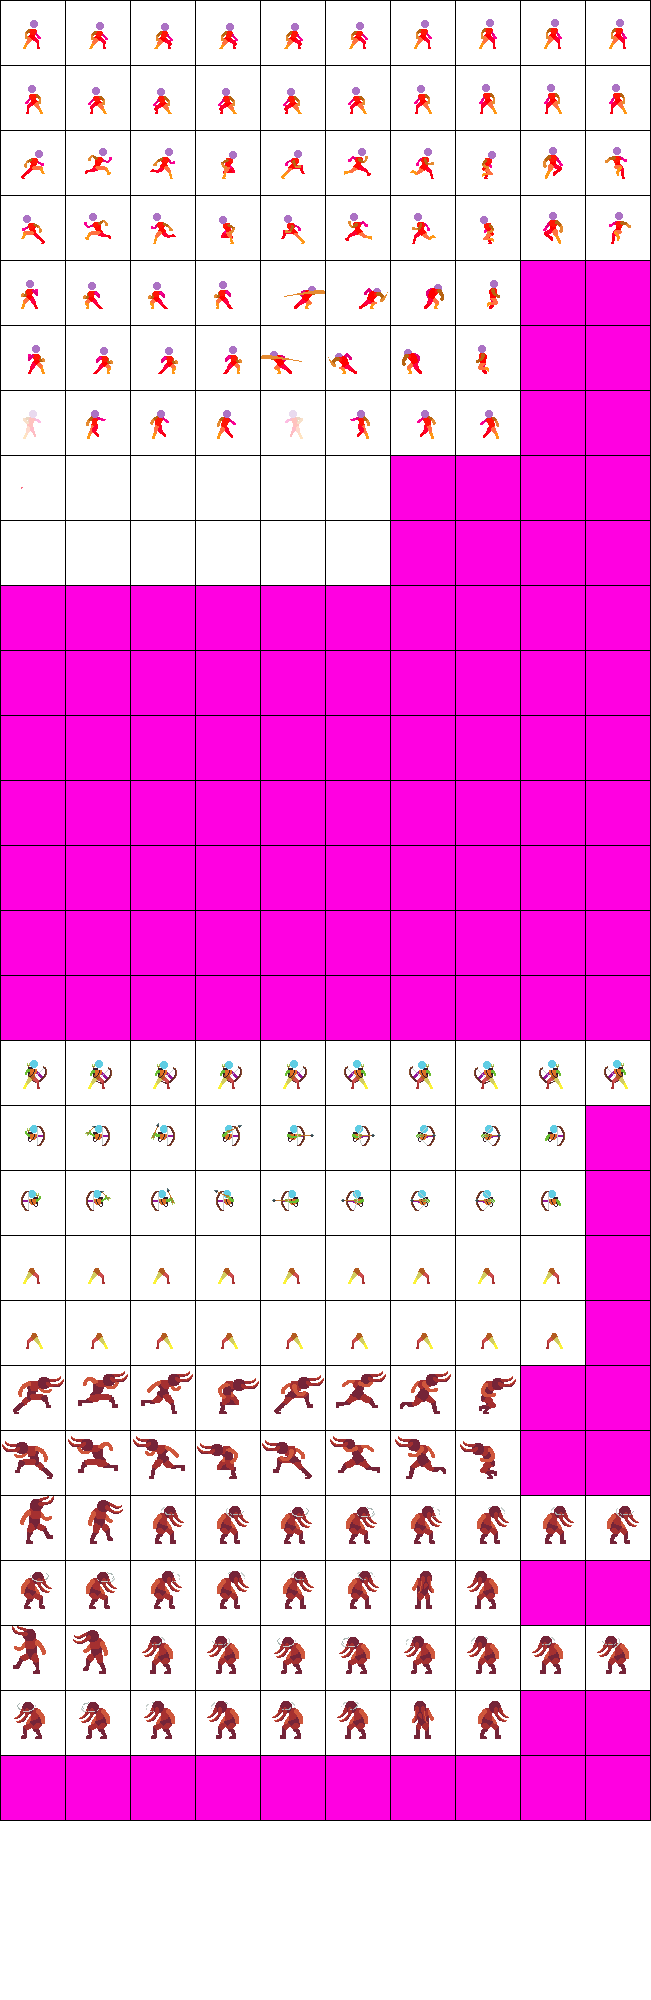
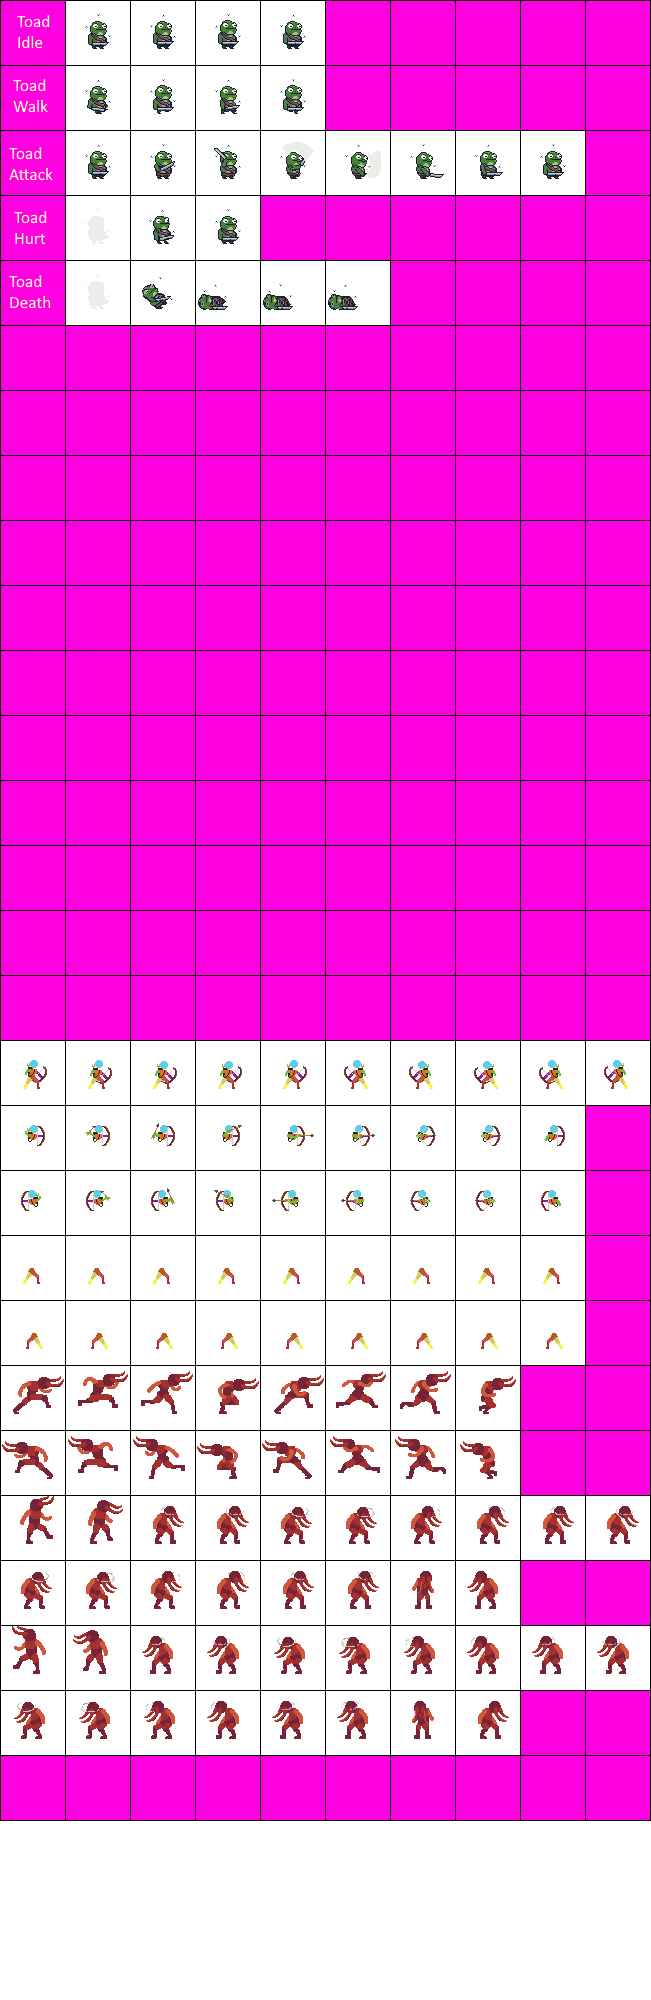
Added death logic and new textures for the basic enemy

Changed region(s): [[0.0, 0.0, 1.0, 0.31]]

diff --git a/GameProject2023/src/game_objects/BasicEnemy.java b/GameProject2023/src/game_objects/BasicEnemy.java
@@ -3,8 +3,9 @@ package game_objects;
 import static framework.GameConstants.ScaleConstants.PLAYER_HEIGHT;
 import static framework.GameConstants.ScaleConstants.PLAYER_WIDTH;
 
+import java.awt.AlphaComposite;
 import java.awt.Graphics;
-import java.awt.image.BufferedImage;
+import java.awt.Graphics2D;
 import java.util.ArrayList;
 
 import abstracts.Creature;
@@ -17,7 +18,11 @@ import window.Animation;
 public class BasicEnemy extends Creature {
 
 	private ObjectHandler objectHandler;
-	
+
+	// After death, gradually fades out the enemy before removing 
+	private float alpha = 1;
+	private float fadingRate = 0.005f;
+
 	// If this enemy recently took damage and is in the hurt animation
 	private boolean tookDamage = false;
 
@@ -33,10 +38,10 @@ public class BasicEnemy extends Creature {
 	private Animation[] runAnimation;
 	private Animation[] attackAnimation;
 	private Animation[] hurtAnimation;
-	private BufferedImage[] jumpingSprites;
+	private Animation[] deathAnimation;
 
 	public BasicEnemy(int x, int y, ObjectHandler objectHandler) {
-		super(x, y, PLAYER_WIDTH, PLAYER_HEIGHT, 25, 100, 70, objectHandler, new ObjectId(ObjectId.Category.Enemy, ObjectId.Name.BasicEnemy));		
+		super(x, y, PLAYER_WIDTH, PLAYER_HEIGHT, 25, 29, 70, objectHandler, new ObjectId(ObjectId.Category.Enemy, ObjectId.Name.BasicEnemy));		
 		this.objectHandler = objectHandler;
 
 		texture = TextureLoader.getInstance().getTextures(TextureName.BasicEnemyIdle)[0];
@@ -47,7 +52,7 @@ public class BasicEnemy extends Creature {
 	public void tick() {
 		x += velX;
 		y += velY;
-
+		
 		if (falling || jumping) {
 			velY += GRAVITY;
 
@@ -60,11 +65,18 @@ public class BasicEnemy extends Creature {
 
 		if (tookDamage && (hurtAnimation[0].isPlayedOnce() || hurtAnimation[1].isPlayedOnce()))
 			tookDamage = false;
-		
+
 		//if (!knockedBack)
 		//handleMovement();
 		handleAttacking();
 		basicBlockCollision();
+
+		if (dead) {
+			if (alpha > fadingRate) 
+				alpha -= fadingRate;
+			else
+				objectHandler.removeObject(this);
+		}
 
 		runAnimations();
 	}
@@ -76,8 +88,8 @@ public class BasicEnemy extends Creature {
 
 	private void handleAttacking() {
 		if (startedAttacking && !attacking) { 
-			if ((attackAnimation[0].getCurrentFrame() >= 4 && attackAnimation[0].getCurrentFrame() < 7) ||
-					attackAnimation[1].getCurrentFrame() >= 4 && attackAnimation[1].getCurrentFrame() < 7)
+			int currentFrame = Math.max(attackAnimation[0].getCurrentFrame(), attackAnimation[1].getCurrentFrame());
+			if (currentFrame == 3 || currentFrame == 4)
 				attacking = true;
 			else
 				attacking = false;
@@ -117,22 +129,22 @@ public class BasicEnemy extends Creature {
 		if (invulnerable)
 			return;
 		invulnerableDuration = invulnerabilityDuration; 
-		
+
 		if (invulnerableDuration != 0) {
 			lastInvulnerableTimer = System.currentTimeMillis();
 			invulnerable = true;
-			
+
 			tookDamage = true;
 			hurtAnimation[0].resetAnimation();
 			hurtAnimation[1].resetAnimation();
 		}
-		
+
 		setHealth(health - damageAmount);
 		objectHandler.addObject(new DamageNumberPopup(x + width / 3, y - height / 5, damageAmount, objectHandler),
 				ObjectHandler.MENU_LAYER);
 
-		if (health <= 0)
-			die();
+		if (health <= 0 && !dead)
+			die(false);
 	}
 
 	@Override
@@ -147,9 +159,8 @@ public class BasicEnemy extends Creature {
 
 	private void setupAnimations() {
 		TextureLoader textureLoader = TextureLoader.getInstance();
-		jumpingSprites = textureLoader.getTextures(TextureName.BasicEnemyJump);
 
-		final int idleDelay = 8;
+		final int idleDelay = 20;
 		idleAnimation = new Animation[] {
 				new Animation(textureLoader.getTexturesByDirection(TextureName.BasicEnemyIdle, 1),
 						idleDelay, false),
@@ -157,14 +168,14 @@ public class BasicEnemy extends Creature {
 						idleDelay, false),
 		};
 
-		final int runDelay = 8;
+		final int runDelay = 15;
 		runAnimation = new Animation[] {
 				new Animation(textureLoader.getTexturesByDirection(TextureName.BasicEnemyRun, 1),
 						runDelay, false),
 				new Animation(textureLoader.getTexturesByDirection(TextureName.BasicEnemyRun, -1),
 						runDelay, false),
 		};
-		
+
 		final int attackDelay = 10;
 		attackAnimation = new Animation[] {
 				new Animation(textureLoader.getTexturesByDirection(TextureName.BasicEnemyAttack, 1),
@@ -172,22 +183,32 @@ public class BasicEnemy extends Creature {
 				new Animation(textureLoader.getTexturesByDirection(TextureName.BasicEnemyAttack, -1),
 						attackDelay, true),
 		};
-		
+
 		final int hurtDelay = 10;
 		hurtAnimation = new Animation[] {
-			new Animation(textureLoader.getTexturesByDirection(TextureName.BasicEnemyHurt, 1),
-					hurtDelay, true),
-			new Animation(textureLoader.getTexturesByDirection(TextureName.BasicEnemyHurt, -1),
-					hurtDelay, true),
+				new Animation(textureLoader.getTexturesByDirection(TextureName.BasicEnemyHurt, 1),
+						hurtDelay, true),
+				new Animation(textureLoader.getTexturesByDirection(TextureName.BasicEnemyHurt, -1),
+						hurtDelay, true),
 		};
 
+		final int deathDelay = 10;
+		deathAnimation = new Animation[] {
+				new Animation(textureLoader.getTexturesByDirection(TextureName.BasicEnemyDeath, 1),
+						deathDelay, true),
+				new Animation(textureLoader.getTexturesByDirection(TextureName.BasicEnemyDeath, -1),
+						deathDelay, true),	
+		};
 	}
 
 	private void runAnimations() {
 		int directionToIndex = getIndexFromDirection();
 
+		// Dead
+		if (dead)
+			deathAnimation[directionToIndex].runAnimation();
 		// Taken damage
-		if (tookDamage)
+		else if (tookDamage)
 			hurtAnimation[directionToIndex].runAnimation();
 		// Attacking
 		else if (startedAttacking)
@@ -203,31 +224,39 @@ public class BasicEnemy extends Creature {
 	private void drawAnimations(Graphics g) {
 		int directionToIndex = getIndexFromDirection();
 
+		final int x = (int) this.x - width / 2;
+		final int y = (int) this.y - height / 2;
+		final int width = this.width * 2;
+		final int height = this.height * 2;
+
+		// Dead
+		if (dead) {
+			Graphics2D g2d = (Graphics2D) g;
+			g2d.setComposite(makeTransparent(alpha));
+			deathAnimation[directionToIndex].drawAnimation(g, x, y, width, height);
+			g2d.setComposite(makeTransparent(1));
+		}
 		// Taken damage
-		if (tookDamage)
-			hurtAnimation[directionToIndex].drawAnimation(g, (int) x - width / 2, (int) y - height / 2, width * 2, height * 2);
+		else if (tookDamage)
+			hurtAnimation[directionToIndex].drawAnimation(g, x, y, width, height);
 		// Attacking
 		else if (startedAttacking)
-			attackAnimation[directionToIndex].drawAnimation(g, (int) x - width / 2, (int) y - height / 2, width * 2, height * 2);
-		// Jumping
-		else if (jumping) {
-			// Going up
-			if (velY <= 0)
-				g.drawImage(jumpingSprites[directionToIndex * 2], (int) x - width / 2, (int) y - height / 2, width * 2, height * 2, null);
-			// Going down
-			else if (velY > 0)
-				g.drawImage(jumpingSprites[directionToIndex * 2 + 1], (int) x - width / 2, (int) y - height / 2, width * 2, height * 2, null);
-		}
+			attackAnimation[directionToIndex].drawAnimation(g, x, y, width, height);
 		// Idle
 		else if (velX == 0)
-			idleAnimation[directionToIndex].drawAnimation(g, (int) x - width / 2, (int) y - height / 2, width * 2, height * 2);
+			idleAnimation[directionToIndex].drawAnimation(g, x, y, width, height);
 		// Running
 		else
-			runAnimation[directionToIndex].drawAnimation(g, (int) x - width / 2, (int) y - height / 2, width * 2, height * 2);
+			runAnimation[directionToIndex].drawAnimation(g, x, y, width, height);
 	}
 
 	public int getIndexFromDirection() {
 		return (-direction + 1) / 2;
+	}
+
+	private AlphaComposite makeTransparent(float alpha) {
+		int type = AlphaComposite.SRC_OVER;
+		return(AlphaComposite.getInstance(type, alpha));
 	}
 
 }

diff --git a/GameProject2023/src/framework/TextureLoader.java b/GameProject2023/src/framework/TextureLoader.java
@@ -36,8 +36,8 @@ public class TextureLoader {
 		BasicEnemyRun,
 		BasicEnemyAttack,
 		BasicEnemyIdle,
-		BasicEnemyJump,
 		BasicEnemyHurt,
+		BasicEnemyDeath,
 
 		ArcherEnemyIdle,
 		ArcherEnemyShootTorso,
@@ -221,37 +221,34 @@ public class TextureLoader {
 			fillArrayWithFlippedImages(textures);
 			break;
 		case BasicEnemyIdle:
-			textures = new BufferedImage[20];
-			for (int i = 0; i < 10; i++) {
-				textures[i] = enemySheet.getSubimage(1 + i * 65, 1, 64, 64);
-				textures[i + 10] = enemySheet.getSubimage(1 + i * 65, 66, 64, 64);
-			}
+			textures = new BufferedImage[8];
+			for (int i = 0; i < textures.length / 2; i++)
+				textures[i] = enemySheet.getSubimage(66 + i * 65, 1, 64, 64);
+			fillArrayWithFlippedImages(textures);
 			break;
 		case BasicEnemyRun:
-			textures = new BufferedImage[16];
-			for (int i = 0; i < 8; i++) {
-				textures[i] = enemySheet.getSubimage(1 + i * 65, 131, 64, 64);
-				textures[i + 8] = enemySheet.getSubimage(1 + i * 65, 196, 64, 64);
-			}
+			textures = new BufferedImage[8];
+			for (int i = 0; i < textures.length / 2; i++)
+				textures[i] = enemySheet.getSubimage(66 + i * 65, 66, 64, 64);
+			fillArrayWithFlippedImages(textures);
 			break;
 		case BasicEnemyAttack:
 			textures = new BufferedImage[16];
-			for (int i = 0; i < 8; i++) {
-				textures[i] = enemySheet.getSubimage(1 + i * 65, 261, 64, 64);
-				textures[i + 8] = enemySheet.getSubimage(1 + i * 65, 326, 64, 64);
-			}
-			break;
-		case BasicEnemyJump:
-			textures = new BufferedImage[4];
-			for (int i = 0; i < 2; i++) {
-				textures[i] = enemySheet.getSubimage(521 + i * 65, 131, 64, 64);
-				textures[i + 2] = enemySheet.getSubimage(521 + i * 65, 196, 64, 64);
-			}
+			for (int i = 0; i < textures.length / 2; i++) 
+				textures[i] = enemySheet.getSubimage(66 + i * 65, 131, 64, 64);
+			fillArrayWithFlippedImages(textures);
 			break;
 		case BasicEnemyHurt:
-			textures = new BufferedImage[8];
-			for (int i = 0; i < textures.length; i++)
-				textures[i] = enemySheet.getSubimage(1 + i * 65, 391, 64, 64);
+			textures = new BufferedImage[6];
+			for (int i = 0; i < textures.length / 2; i++)
+				textures[i] = enemySheet.getSubimage(66 + i * 65, 196, 64, 64);
+			fillArrayWithFlippedImages(textures);
+			break;
+		case BasicEnemyDeath:
+			textures = new BufferedImage[10];
+			for (int i = 0; i < textures.length / 2; i++)
+				textures[i] = enemySheet.getSubimage(66 + i * 65, 261, 64, 64);
+			fillArrayWithFlippedImages(textures);
 			break;
 		case DiagonalStoneTiles:
 			textures = new BufferedImage[4];

diff --git a/GameProject2023/src/abstracts/Creature.java b/GameProject2023/src/abstracts/Creature.java
@@ -8,6 +8,7 @@ import framework.ObjectHandler;
 import framework.ObjectId;
 import framework.ObjectId.Category;
 import framework.ObjectId.Name;
+import game_objects.Player;
 
 public abstract class Creature extends GameObject {
 
@@ -16,7 +17,7 @@ public abstract class Creature extends GameObject {
 
 	protected ObjectHandler objectHandler; 
 
-	protected boolean falling, jumping, knockedBack, invulnerable;
+	protected boolean falling, jumping, knockedBack, invulnerable, dead;
 	// 1 for right, -1 for left
 	protected int direction = 1;
 	protected float velX, velY;
@@ -70,7 +71,19 @@ public abstract class Creature extends GameObject {
 	public abstract void applyKnockback(float velX, float velY);
 
 	public void die() {
+		dead = true;
 		objectHandler.removeObject(this);
+		dropCoins();
+	}
+	
+	public void die(boolean removeObject) {
+		dead = true;
+		if (removeObject)
+			objectHandler.removeObject(this);
+		dropCoins();
+	}
+	
+	private void dropCoins() {
 		int coinsToDrop = (int) (Math.random() * 6) + 1;
 		for (int i = 0; i < coinsToDrop; i++)
 			objectHandler.addObject(objectHandler.createObjectByName(Name.Coin, (int) x, (int) y), ObjectHandler.MIDDLE_LAYER);
@@ -166,11 +179,12 @@ public abstract class Creature extends GameObject {
 
 	protected Rectangle getGroundAttackBounds() {
 		int attackX;
+		int attackWidth = 3 * width / 5;
 		if (direction == 1)
-			attackX = (int) x + width / 2;
+			attackX = (int) (x + width / 2);
 		else
-			attackX = (int) x - width / 2;
-		return new Rectangle(attackX, (int) y, width, height);
+			attackX = (int) (x + width / 2 - attackWidth);
+		return new Rectangle(attackX, (int) y, attackWidth, height);
 	}
 
 	protected Rectangle getGroundCheckBounds() {

diff --git a/GameProject2023/src/window/GameWindow.java b/GameProject2023/src/window/GameWindow.java
@@ -25,7 +25,7 @@ public class GameWindow extends JFrame implements MouseInputObserver {
 	 * @param main reference to the Game class, used to set up the JFrame with a Canvas.
 	 */
 	public GameWindow(Game game) {
-		boolean fullscreen = true;
+		boolean fullscreen = false;
 		if (fullscreen)
 			setUndecorated(true);
 		else
